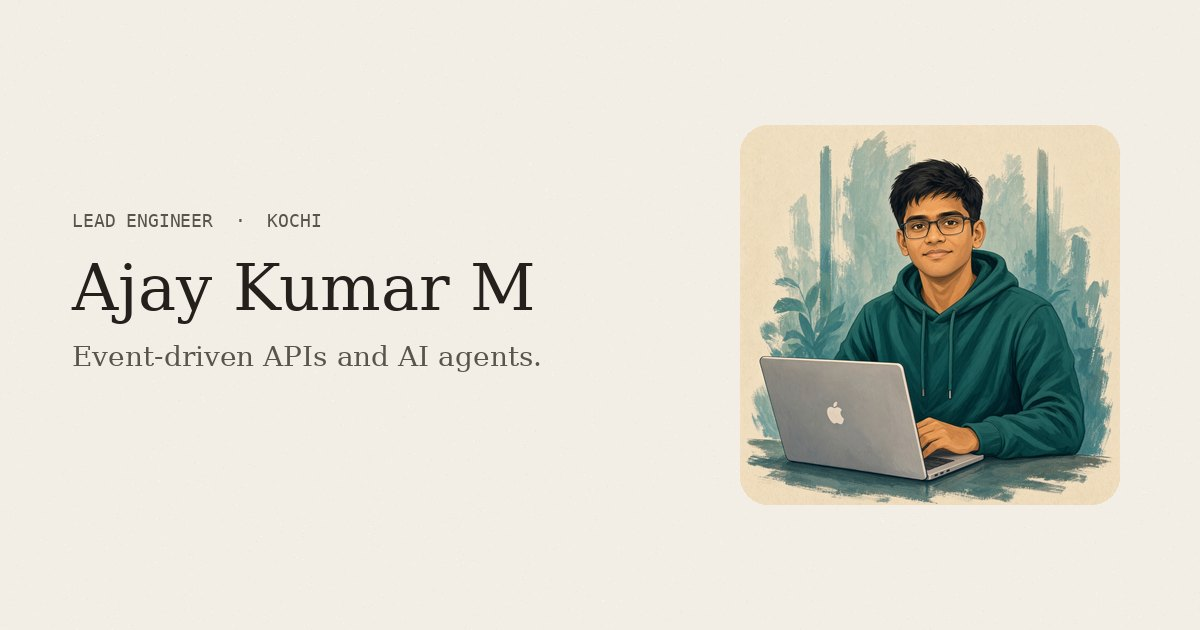
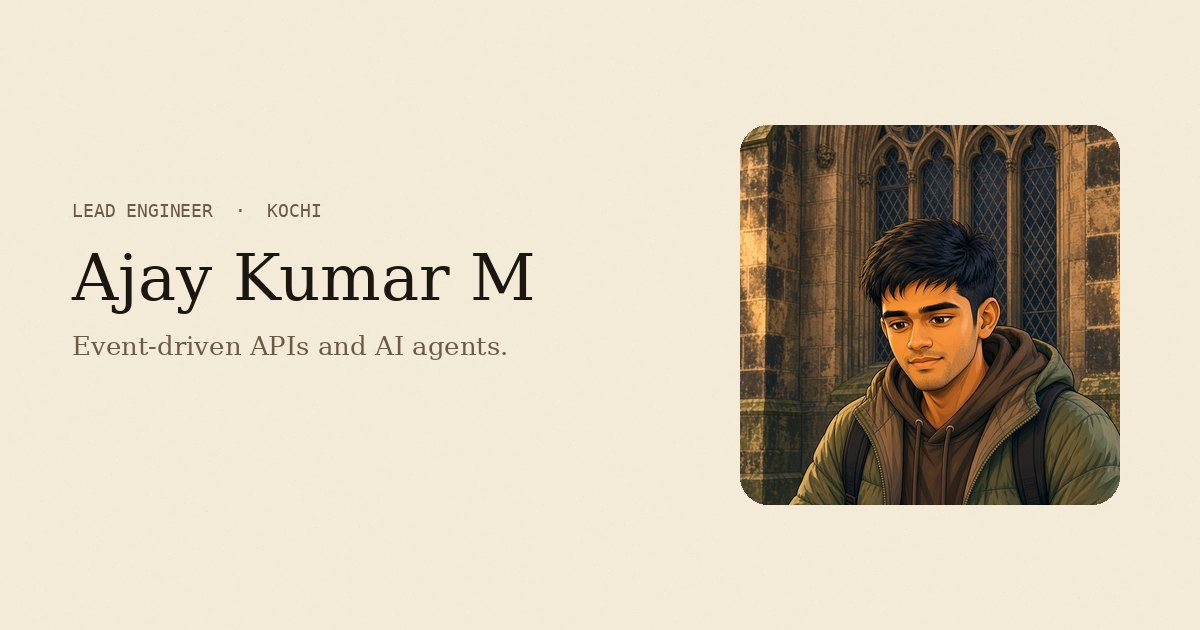
Restyle from the gothic portrait: olive, sandstone, brown
Hero uses the new illustration. Theme tokens, favicon, and share card
follow the jacket and stone palette.

diff --git a/src/styles.css b/src/styles.css
@@ -2,19 +2,19 @@
 @import "tw-animate-css";
 
 @theme {
-  --color-background: #f2eee6;
-  --color-foreground: #1a1814;
-  --color-card: #ebe6db;
-  --color-muted: #e4ddd0;
-  --color-muted-foreground: #6d675c;
-  --color-primary: #25403f;
-  --color-primary-foreground: #f2eee6;
-  --color-secondary: #e4ddd0;
-  --color-secondary-foreground: #1a1814;
-  --color-accent: #25403f;
-  --color-accent-foreground: #f2eee6;
+  --color-background: #f3ead8;
+  --color-foreground: #1c1610;
+  --color-card: #eadcc4;
+  --color-muted: #e0d0b4;
+  --color-muted-foreground: #6b5a45;
+  --color-primary: #3f4a28;
+  --color-primary-foreground: #f3ead8;
+  --color-secondary: #e0d0b4;
+  --color-secondary-foreground: #1c1610;
+  --color-accent: #3f4a28;
+  --color-accent-foreground: #f3ead8;
   --color-border: color-mix(in oklab, var(--color-foreground) 12%, transparent);
-  --color-ring: #25403f;
+  --color-ring: #3f4a28;
   --color-input: color-mix(in oklab, var(--color-foreground) 16%, transparent);
 
   --font-sans: "Figtree", ui-sans-serif, system-ui, sans-serif;
@@ -56,19 +56,19 @@
 
 .dark {
   color-scheme: dark;
-  --color-background: #0d1414;
-  --color-foreground: #e6ecec;
-  --color-card: #141f1f;
-  --color-muted: #1c2a2a;
-  --color-muted-foreground: #94a3a3;
-  --color-primary: #4e8582;
-  --color-primary-foreground: #0d1414;
-  --color-secondary: #1c2a2a;
-  --color-secondary-foreground: #e6ecec;
-  --color-accent: #4e8582;
-  --color-accent-foreground: #0d1414;
+  --color-background: #16120e;
+  --color-foreground: #f0e4d0;
+  --color-card: #221c16;
+  --color-muted: #2c241c;
+  --color-muted-foreground: #b8a58c;
+  --color-primary: #9aaa6a;
+  --color-primary-foreground: #16120e;
+  --color-secondary: #2c241c;
+  --color-secondary-foreground: #f0e4d0;
+  --color-accent: #9aaa6a;
+  --color-accent-foreground: #16120e;
   --color-border: color-mix(in oklab, var(--color-foreground) 15%, transparent);
-  --color-ring: #4e8582;
+  --color-ring: #9aaa6a;
   --color-input: color-mix(in oklab, var(--color-foreground) 20%, transparent);
 
   --shadow-border:
@@ -83,19 +83,19 @@
 @media (prefers-color-scheme: dark) {
   :root:not(.light) {
     color-scheme: dark;
-    --color-background: #0d1414;
-    --color-foreground: #e6ecec;
-    --color-card: #141f1f;
-    --color-muted: #1c2a2a;
-    --color-muted-foreground: #94a3a3;
-    --color-primary: #4e8582;
-    --color-primary-foreground: #0d1414;
-    --color-secondary: #1c2a2a;
-    --color-secondary-foreground: #e6ecec;
-    --color-accent: #4e8582;
-    --color-accent-foreground: #0d1414;
+    --color-background: #16120e;
+    --color-foreground: #f0e4d0;
+    --color-card: #221c16;
+    --color-muted: #2c241c;
+    --color-muted-foreground: #b8a58c;
+    --color-primary: #9aaa6a;
+    --color-primary-foreground: #16120e;
+    --color-secondary: #2c241c;
+    --color-secondary-foreground: #f0e4d0;
+    --color-accent: #9aaa6a;
+    --color-accent-foreground: #16120e;
     --color-border: color-mix(in oklab, var(--color-foreground) 15%, transparent);
-    --color-ring: #4e8582;
+    --color-ring: #9aaa6a;
     --color-input: color-mix(in oklab, var(--color-foreground) 20%, transparent);
 
     --shadow-border:

diff --git a/src/components/hero.tsx b/src/components/hero.tsx
@@ -78,9 +78,9 @@ export function Hero() {
           <img
             src="/images/ajay.jpg"
             alt="Cartoon illustration of Ajay Kumar M"
-            className="media aspect-square w-full rounded-lg object-cover object-top"
-            width={1408}
-            height={1408}
+            className="media aspect-3/4 w-full rounded-lg object-cover object-top"
+            width={1008}
+            height={1344}
           />
         </div>
         <figcaption className="mt-3 flex items-center justify-between font-mono text-xs text-muted-foreground">

diff --git a/src/routes/__root.tsx b/src/routes/__root.tsx
@@ -16,7 +16,7 @@ export const Route = createRootRoute({
       { title: APP_NAME },
       { name: "description", content: APP_DESCRIPTION },
       { name: "color-scheme", content: "light dark" },
-      { name: "theme-color", content: "#f2eee6" },
+      { name: "theme-color", content: "#f3ead8" },
       { property: "og:title", content: APP_NAME },
       { property: "og:description", content: APP_DESCRIPTION },
       { property: "og:image", content: "/og.jpg" },
